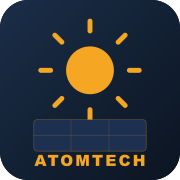
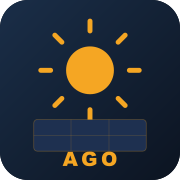
feat: rebranding SIGECO -> AGO (Operacional) e AGF (Financeira)
Pedido do usuario: nomes mais simples.
- apps/web:        SIGECO Propostas -> AGO - Atom Gestao Operacional
- apps/financeiro: SIGECO Gestao    -> AGF - Atom Gestao Financeira

Alterado em: titulos de janela (index.html), manifests PWA (nome do
app na tela inicial do celular), icones (SVG + PNGs regenerados com
AGF/AGO), telas de login, sidebars, topbars, badges, links cruzados
entre plataformas, tela de acesso restrito, PDFs (comprovante e
relatorios do financeiro) e CLAUDE.md.

Nao mudou: nomes de pastas do monorepo, URLs de deploy, tabelas do
banco e branding Atom Tech nos PDFs de proposta enviados a clientes.

Changed region(s): [[0.1944, 0.8333, 0.8056, 0.9444]]

diff --git a/apps/financeiro/src/components/layout/Layout.tsx b/apps/financeiro/src/components/layout/Layout.tsx
@@ -123,7 +123,7 @@ const NAV = [
   { path: '/configuracoes',label: 'Configurações', Icon: IcoConfiguracoes, color: '#6B9E87', desc: 'Contas, Plano, Custos' },
 ]
 
-// Logo Atom Tech — sol com raios (identidade SIGECO)
+// Logo Atom Tech — sol com raios (identidade AGF)
 const IconAtom = ({ size = 36 }: { size?: number }) => (
   <svg width={size} height={size} viewBox="0 0 512 512" xmlns="http://www.w3.org/2000/svg">
     <rect width="512" height="512" rx="80" fill="#0D1C17"/>
@@ -297,10 +297,10 @@ export function Layout() {
           {!collapsed && (
             <div>
               <div style={{ fontSize: 15, fontWeight: 800, color: C.text, lineHeight: 1.1 }}>
-                <span style={{ color: '#F5A623' }}>SIGE</span><span style={{ color: C.emerald }}>CO</span>
+                <span style={{ color: '#F5A623' }}>A</span><span style={{ color: C.emerald }}>GF</span>
               </div>
               <div style={{ fontSize: 9, color: C.emeraldFg, letterSpacing: '0.18em', marginTop: 3, fontWeight: 700 }}>
-                GESTÃO
+                GESTÃO FINANCEIRA
               </div>
             </div>
           )}
@@ -318,7 +318,7 @@ export function Layout() {
             fontWeight: 700, letterSpacing: '0.08em', textTransform: 'uppercase',
             textAlign: 'center',
           }}>
-            SIGECO · Gestão Financeira
+            AGF · Atom Gestão Financeira
           </div>
         )}
 
@@ -470,7 +470,7 @@ export function Layout() {
               </h1>
               {!isMobile && (
                 <div style={{ fontSize: 10, color: C.textDim, marginTop: 1 }}>
-                  SIGECO · Gestão Financeira
+                  AGF · Atom Gestão Financeira
                 </div>
               )}
             </div>
@@ -500,9 +500,9 @@ export function Layout() {
                   el.style.borderColor = C.border
                   el.style.color = C.textMuted
                 }}
-                title="Ir para SIGECO Propostas"
+                title="Ir para AGO — Atom Gestão Operacional"
               >
-                ☀ SIGECO Propostas
+                ☀ AGO Operacional
               </a>
             )}
 

diff --git a/apps/web/src/components/layout/Layout.tsx b/apps/web/src/components/layout/Layout.tsx
@@ -4,7 +4,7 @@ import { trpc } from '../../lib/trpc'
 import { NovaPropostaDropdown } from '../ui/NovaPropostaDropdown'
 import { useIsMobile } from '../../hooks/useIsMobile'
 
-// Logo Atom Tech — identidade SIGECO
+// Logo Atom Tech — identidade AGO
 const IconAtom = ({ size = 36 }: { size?: number }) => (
   <svg width={size} height={size} viewBox="0 0 512 512" xmlns="http://www.w3.org/2000/svg">
     <rect width="512" height="512" rx="80" fill="#111D2E"/>
@@ -250,10 +250,10 @@ export function Layout() {
               {!collapsed && (
                 <div>
                   <div style={{ fontSize: 15, fontWeight: 800, color: '#E2EAF5', lineHeight: 1.1 }}>
-                    <span style={{ color: '#F5A623' }}>SIGE</span><span style={{ color: '#3EBB7A' }}>CO</span>
+                    <span style={{ color: '#F5A623' }}>A</span><span style={{ color: '#3EBB7A' }}>GO</span>
                   </div>
                   <div style={{ fontSize: 9, color: '#3EBB7A', letterSpacing: '0.18em', marginTop: 3, fontWeight: 700 }}>
-                    PROPOSTAS
+                    GESTÃO OPERACIONAL
                   </div>
                 </div>
               )}
@@ -423,7 +423,7 @@ export function Layout() {
               </h1>
               {!isMobile && (
                 <div style={{ fontSize: 10, color: '#3A5070', marginTop: 1 }}>
-                  SIGECO · Plataforma Comercial
+                  AGO · Atom Gestão Operacional
                 </div>
               )}
             </div>
@@ -461,9 +461,9 @@ export function Layout() {
                     el.style.background = 'transparent'
                     el.style.borderColor = '#1E4033'
                   } : undefined}
-                  title={isAdmin ? 'Abrir SIGECO Gestão' : 'Acesso restrito a administradores'}
+                  title={isAdmin ? 'Abrir AGF — Atom Gestão Financeira' : 'Acesso restrito a administradores'}
                 >
-                  ◈ SIGECO Gestão
+                  ◈ AGF Financeiro
                   {!isAdmin && <span style={{ fontSize: 9, color: '#4A6080' }}>🔒</span>}
                 </a>
               )

diff --git a/apps/financeiro/src/lib/gerarComprovantePdf.ts b/apps/financeiro/src/lib/gerarComprovantePdf.ts
@@ -1,5 +1,5 @@
 // ═══════════════════════════════════════════════════════════════════
-// Gerador de Comprovante / OS — SIGECO / Atom Finance
+// Gerador de Comprovante / OS — AGF (Atom Gestão Financeira)
 // Usa window.print() em uma nova janela para gerar o PDF
 // ═══════════════════════════════════════════════════════════════════
 
@@ -195,7 +195,7 @@ function headerHtml(empresa: EmpresaInfo, logoDataUrl: string | null): string {
           ${empresa.nome}
         </div>
         <div style="font-size:10px;color:#64748B;margin-top:2px;letter-spacing:0.02em;">
-          SIGECO — Sistema Integrado de Gestão de Engenharia, Contratos e Operações
+          AGF — Atom Gestão Financeira
         </div>
         <div style="margin-top:5px;font-size:10.5px;color:#475569;line-height:1.6;">
           CNPJ: ${fmtCnpj(empresa.cnpj)}
@@ -512,7 +512,7 @@ export async function gerarComprovantePdf(params: {
     <html lang="pt-BR">
     <head>
       <meta charset="UTF-8">
-      <title>SIGECO — ${empresa.nome}</title>
+      <title>AGF — ${empresa.nome}</title>
       <style>
         * { box-sizing: border-box; margin: 0; padding: 0; }
         body {
@@ -536,7 +536,7 @@ export async function gerarComprovantePdf(params: {
       ${conteudo}
 
       <div style="margin-top:28px;padding-top:12px;border-top:1px solid #E2E8F0;text-align:center;font-size:9px;color:#94A3B8;">
-        SIGECO / ${empresa.nome} &nbsp;·&nbsp; Emitido em ${new Date().toLocaleDateString('pt-BR')} às ${new Date().toLocaleTimeString('pt-BR', { hour: '2-digit', minute: '2-digit' })}
+        AGF / ${empresa.nome} &nbsp;·&nbsp; Emitido em ${new Date().toLocaleDateString('pt-BR')} às ${new Date().toLocaleTimeString('pt-BR', { hour: '2-digit', minute: '2-digit' })}
       </div>
       ${rodape}
 

diff --git a/apps/financeiro/src/pages/config/UsuariosPage.tsx b/apps/financeiro/src/pages/config/UsuariosPage.tsx
@@ -1,5 +1,5 @@
 // ═══════════════════════════════════════════════════════════════════
-// Gestão de Usuários — SIGECO Gestão Financeira
+// Gestão de Usuários — AGF (Atom Gestão Financeira)
 // Mesmo endpoint da plataforma de Propostas (usuarioRouter compartilhado)
 // ═══════════════════════════════════════════════════════════════════
 
@@ -24,8 +24,8 @@ const ROLE_CORES: Record<string, string> = {
 }
 
 const ROLE_DESCRICOES: Record<string, string> = {
-  admin:        'Acesso total — SIGECO Gestão + Propostas, configurações e usuários',
-  comercial:    'Acesso à plataforma de Propostas. Sem acesso ao Financeiro',
+  admin:        'Acesso total — AGF + AGO, configurações e usuários',
+  comercial:    'Acesso à plataforma AGO (Operacional). Sem acesso ao Financeiro',
   tecnico:      'Visualiza e opera Ordens de Serviço. Sem acesso ao Financeiro',
   visualizador: 'Somente leitura — visualiza propostas e clientes',
 }

diff --git a/apps/api/src/lib/pessoaSync.ts b/apps/api/src/lib/pessoaSync.ts
@@ -1,5 +1,5 @@
 // ═══════════════════════════════════════════════════════════════════
-// Sincronização de identidade entre cliente (Propostas) e fin_pessoa (SIGECO)
+// Sincronização de identidade entre cliente (AGO) e fin_pessoa (AGF)
 // ═══════════════════════════════════════════════════════════════════
 //
 // As duas plataformas usam tabelas separadas com propósitos diferentes:
@@ -88,7 +88,7 @@ export async function propagarClienteParaFinPessoa(db: any, empresaId: number, c
     .where(and(eq(finPessoa.clienteId, clienteId), eq(finPessoa.empresaId, empresaId)))
 }
 
-// Propaga edição de fin_pessoa (SIGECO) para o cliente vinculado
+// Propaga edição de fin_pessoa (AGF) para o cliente vinculado
 export async function propagarFinPessoaParaCliente(db: any, empresaId: number, clienteId: number, dados: FinPessoaIdentidade) {
   const campos = mapFinPessoaParaCliente(dados)
   if (Object.keys(campos).length === 0) return

diff --git a/apps/financeiro/src/pages/LoginPage.tsx b/apps/financeiro/src/pages/LoginPage.tsx
@@ -61,10 +61,10 @@ export function LoginPage() {
             <IconAtom size={56} />
           </div>
           <div style={{ fontSize: 22, fontWeight: 800, color: C.text, lineHeight: 1.1 }}>
-            <span style={{ color: '#F5A623' }}>SIGE</span><span style={{ color: C.emerald }}>CO</span>
+            <span style={{ color: '#F5A623' }}>A</span><span style={{ color: C.emerald }}>GF</span>
           </div>
           <div style={{ fontSize: 11, color: C.textMuted, marginTop: 4, letterSpacing: '0.1em' }}>
-            GESTÃO FINANCEIRA
+            ATOM GESTÃO FINANCEIRA
           </div>
         </div>
 
@@ -123,7 +123,7 @@ export function LoginPage() {
         </form>
 
         <p style={{ textAlign: 'center', marginTop: 24, fontSize: 12, color: C.textDim }}>
-          Atom Tech · SIGECO
+          Atom Tech · AGF
         </p>
       </div>
     </div>

diff --git a/apps/financeiro/index.html b/apps/financeiro/index.html
@@ -6,9 +6,9 @@
     <meta name="theme-color" content="#0D1C17" />
     <meta name="apple-mobile-web-app-capable" content="yes" />
     <meta name="apple-mobile-web-app-status-bar-style" content="black-translucent" />
-    <meta name="apple-mobile-web-app-title" content="SIGECO" />
+    <meta name="apple-mobile-web-app-title" content="AGF" />
     <link rel="apple-touch-icon" href="/apple-touch-icon.png" />
-    <title>SIGECO Gestão</title>
+    <title>AGF — Atom Gestão Financeira</title>
     <link rel="preconnect" href="https://fonts.googleapis.com" />
     <link rel="preconnect" href="https://fonts.gstatic.com" crossorigin />
     <link href="https://fonts.googleapis.com/css2?family=Plus+Jakarta+Sans:wght@400;500;600;700;800&display=swap" rel="stylesheet" />

diff --git a/apps/financeiro/src/App.tsx b/apps/financeiro/src/App.tsx
@@ -57,7 +57,7 @@ function AcessoBloqueado() {
           Acesso Restrito
         </h1>
         <p style={{ color: '#64748B', fontSize: 14, margin: '0 0 20px', lineHeight: 1.6 }}>
-          O módulo <strong style={{ color: '#10B981' }}>Financeiro</strong> é exclusivo para
+          O <strong style={{ color: '#10B981' }}>AGF — Atom Gestão Financeira</strong> é exclusivo para
           administradores do sistema.
         </p>
         <div style={{
@@ -83,7 +83,7 @@ function AcessoBloqueado() {
             boxShadow: '0 4px 16px rgba(16,185,129,0.3)',
           }}
         >
-          ☀ Voltar para Propostas
+          ☀ Voltar para o AGO
         </a>
       </div>
     </div>

diff --git a/apps/web/index.html b/apps/web/index.html
@@ -6,9 +6,9 @@
     <meta name="theme-color" content="#0C1421" />
     <meta name="apple-mobile-web-app-capable" content="yes" />
     <meta name="apple-mobile-web-app-status-bar-style" content="black-translucent" />
-    <meta name="apple-mobile-web-app-title" content="Atom Tech" />
+    <meta name="apple-mobile-web-app-title" content="AGO" />
     <link rel="apple-touch-icon" href="/apple-touch-icon.png" />
-    <title>Atom Tech Solar — Sistema de Propostas</title>
+    <title>AGO — Atom Gestão Operacional</title>
     <style>
       * { box-sizing: border-box; }
       body { margin: 0; background: #0F1923; }

diff --git a/apps/web/vite.config.ts b/apps/web/vite.config.ts
@@ -10,9 +10,9 @@ export default defineConfig({
       registerType: 'autoUpdate',
       includeAssets: ['atomtech-icon.svg', 'apple-touch-icon.png'],
       manifest: {
-        name: 'Atom Tech Solar — Propostas',
-        short_name: 'Atom Tech',
-        description: 'Sistema de propostas fotovoltaicas da Atom Tech',
+        name: 'AGO — Atom Gestão Operacional',
+        short_name: 'AGO',
+        description: 'Atom Gestão Operacional — propostas, clientes e ordens de serviço',
         theme_color: '#0C1421',
         background_color: '#0C1421',
         display: 'standalone',

diff --git a/apps/financeiro/vite.config.ts b/apps/financeiro/vite.config.ts
@@ -9,9 +9,9 @@ export default defineConfig({
       registerType: 'autoUpdate',
       includeAssets: ['atomtech-icon.svg', 'apple-touch-icon.png'],
       manifest: {
-        name: 'SIGECO Gestão',
-        short_name: 'SIGECO',
-        description: 'Sistema de Gestão Financeira da Atom Tech',
+        name: 'AGF — Atom Gestão Financeira',
+        short_name: 'AGF',
+        description: 'Atom Gestão Financeira',
         theme_color: '#0D1C17',
         background_color: '#0D1C17',
         display: 'standalone',

diff --git a/apps/financeiro/src/lib/gerarRelatorioPdf.ts b/apps/financeiro/src/lib/gerarRelatorioPdf.ts
@@ -77,7 +77,7 @@ function cabecalho(titulo: string, sub: string, empresa: any) {
 }
 
 function rodape() {
-  return `<div class="footer">Atom Tech · Controle Financeiro · Documento gerado automaticamente</div>`
+  return `<div class="footer">Atom Tech · AGF — Atom Gestão Financeira · Documento gerado automaticamente</div>`
 }
 
 function abrirJanela(html: string) {
